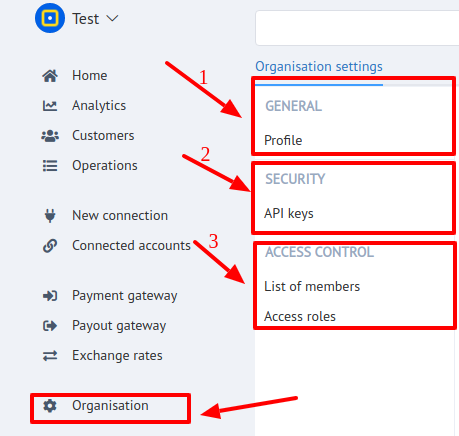
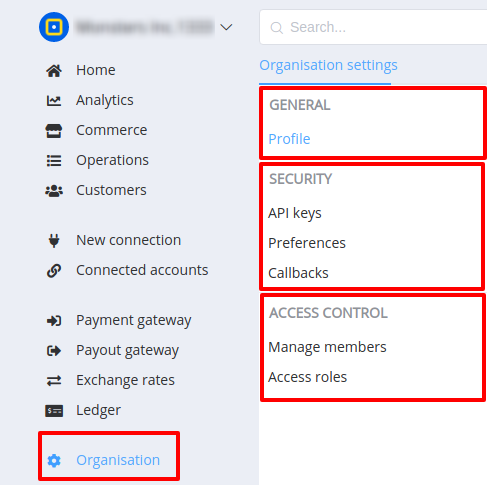
Org Update

diff --git a/docs/getting-started/organisation/access.md b/docs/getting-started/organisation/access.md
@@ -82,7 +82,7 @@ User access to the organisation is primarily determined  by the status of a team
 |    **ID**      |               **Name**       |        **Organisation Access**       |
 |:--------------:|:----------------------------:|:----------------------------:|
 | **invited**      | The invited member  has no access to the organisation until he independently activates it through the mechanism of confirmation. When you try to enter the organisation, you will be redirected to the confirmation screen. A member can be deleted only in **```invited```** state using **_"Revoke invite"_** action.      | **FALSE**         |
-| **active**      | Active user, team member        |  **TRUE**         |
+| **active**      | Active user, team member        | <span style="background-color:#79f99b"> **TRUE**</span    >         |
 | **inactive**      | Inactive team member, does not have access to the organisation. When try to access,you will be shown an error screen with message - "No access rights. Contact your organisation administrator."       |  **FALSE**       |    
 | **archived**      | Archived inactive team member. Not displayed in the management list of the team and its directory.        |  **FALSE**       |
 
@@ -102,11 +102,11 @@ In this section You can manage Access roles in current organisation!
 ### System roles
 |    **ID**      |               **Name**       |        **Description**       |
 |:--------------:|:----------------------------:|:----------------------------:|
-| **owner**      | Owner of organisation        |<ul align="left" > <li >**Only 1 member** of the team can have this role!</li><li>The user with this role cannot be removed from the command.</li><li> This role can be transferred to other team members by lowering the rights to the admin role.</li></ul>|
-| **admin**      | Organisation administrator   |Full access to the organisation, including the ability to manage access and team members (cannot delete a user with role **```owner```**).       |
-| **manager**    | Organisation manager         |Full read and write access, without the ability to manage **organisation** and **technical aspects**: _set up integrations, webhook, see keys, regenerate them, etc._      |
-| **developer**  | Organisation developer       |  Full read and write access, without the ability to manage **organisation** and **business aspects**: _re-wire payments, edit customers, organization data, etc._     |
-| **watcher**    | Watcher of  organisation     | **Only read** access  of all data, except **"sensitive data"**, such as: _keys, webhook URL, integration, etc._      |
+| **Owner**      | Owner of organisation        |<ul align="left" > <li >**Only 1 member** of the team can have this role!</li><li>The user with this role cannot be removed from the command.</li><li> This role can be transferred to other team members by lowering the rights to the admin role.</li></ul>|
+| **Administrator**      | Organisation administrator   |Full access to the organisation, including the ability to manage access and team members (cannot delete a user with role **```owner```**).       |
+| **Manager**    | Organisation manager         |Full read and write access, without the ability to manage **organisation** and **technical aspects**: _set up integrations, webhook, see keys, regenerate them, etc._      |
+| **Developer**  | Organisation developer       |  Full read and write access, without the ability to manage **organisation** and **business aspects**: _re-wire payments, edit customers, organization data, etc._     |
+| **Watcher**    | Watcher of  organisation     | **Only read** access  of all data, except **"sensitive data"**, such as: _keys, webhook URL, integration, etc._      |
 
 
 Here you can manage your organisation roles and their access scope:

diff --git a/docs/products/commerce/operations/payment-invoice/overview.md b/docs/products/commerce/operations/payment-invoice/overview.md
@@ -2,7 +2,7 @@
 
 ## General
 
-There are three types of **incoming** transactions that occur in PayCore.io®:
+There are three types of **incoming** transactions that occur in PayCore.io<sup>®</sup>:
 
 - Payment 
 
@@ -32,10 +32,10 @@ Below is a description of each status:
 <table>
 <tr ><th><b>Code</b></th><th><b>Final</b></th><th><b>Sleeping State</b></th><th><b>Description</b></th></tr>
 
-<tr><td>CREATED</td><td>No</td><td>No</td><td>Initial status after a Payment Invoice is created, processing has not started. <br> If PayCore.io will not return response 201 (Created) HTTP status code on your request, you should consider that the payment invoice was failed to be created</td></tr>
+<tr><td>CREATED</td><td>No</td><td>No</td><td>Initial status after a Payment Invoice is created, processing has not started. <br> If PayCore.io<sup>®</sup> will not return response 201 (Created) HTTP status code on your request, you should consider that the payment invoice was failed to be created</td></tr>
 <tr style="background-color:#ff8787"><td>EXPIRED</td><td><b>Yes</b></td><td>No</td><td>Means the Payment Invoice hit the lifetime limit (configurable in the 'Invoice lifetime' property) without being successfully processed, but also did not either cancelled or terminated, e.g. your customer has abandoned the payment</td></tr>
 <tr style="background-color:#ff8787"><td>TERMINATED</td><td><b>Yes</b></td><td>No</td><td>Means that the payment process was terminated by a payer prior to the payment invoice lifetime limit</td></tr>
-<tr><td>PROCESSING</td><td>No</td><td><b>Yes</b></td><td>Signifies that the payment invoice is processing by PayCore.io but its processing is not finished and there will be further status updates</td></tr>
+<tr><td>PROCESSING</td><td>No</td><td><b>Yes</b></td><td>Signifies that the payment invoice is processing by PayCore.io<sup>®</sup> but its processing is not finished and there will be further status updates</td></tr>
 <tr><td>PROCESS_PENDING</td><td>No</td><td><b>Yes</b></td><td>Means that the result of the payment process still being unknown and may not be known for an extended period of time</td></tr>
 <tr style="background-color:#79f99b"><td>PROCESSED</td><td>No</td><td>No</td><td>Confirms the payment has been processed successfully. <br> This isn't a final status since the payment can be refunded for different reasons</td></tr>
 <tr style="background-color:#79f99b"><td>PARTIALLY_PROCESSED</td><td>No</td><td>No</td><td>Means that the amount paid is less than the payment invoice amount and that amount is successfully processed, e.g. your customer has entered an amount less than the invoice amount while making an online payment</td></tr>

diff --git a/docs/getting-started/organisation/security.md b/docs/getting-started/organisation/security.md
@@ -1,14 +1,22 @@
 # Organisation: Security
 
-Security section is intended  to prevent illegal access by connection  using API keys.
+Security section is intended for:
+
+- manage organisation API keys
+- control organisation access keys
+- setting up preferences
+- callbacks configuration
+
+
+
+## API Keys
 
 Here You can:
 
-- [x] Create new API key 
-- [x] Change description 
-- [x] Add Whitelisted IP addresses
+- [x] Create new API keys 
+- [x] Configure IP Whitelist
 - [x] Change permission set of existing keys
-- [x] Revoke out-of-use keys
+- [x] Revoke deprecated keys
 
 !!! tip
     **Don't forget to Save changes to confirm your choice!**
@@ -19,3 +27,30 @@ Here You can:
     [![Security](images/org_security_3.png)](images/org_security_3.png)
 
 As a result, You will be able to give API key to External system or user for functional accessing through API connection.
+
+## Preferences
+
+This section includes organisation-wide properties.
+
+- Currencies: Owner and Administrators have the possibility to determine available currencies.
+
+
+## Callbacks
+
+This section contains:
+
+-  Signature secret keys
+
+    !!! note
+        These keys are **```READ ONLY```**!
+
+- Webhooks version
+    
+    > This property determines the Callbacks structure and the way how data is signed
+
+    !!! info
+        Read more about [**Webhooks**](../../webhooks/)
+
+!!! info "Screenshots"
+    [![Security](images/org_security_4.png)](images/org_security_4.png)
+

diff --git a/docs/getting-started/organisation/index.md b/docs/getting-started/organisation/index.md
@@ -1,11 +1,11 @@
 # Organisation
 
 
-Organisation is an important management part of <a href="https://dashboard.paycore.io/" target="_blank" rel="noopener">PayСore.io Dashboard</a>. 
+Organisation is an important management part of <a href="https://dashboard.paycore.io/" target="_blank" rel="noopener">PayСore.io<sup>®</sup> Dashboard</a>. 
 
 It allows you to isolate data and operations of your organization from other accounts in the system.
 
-It is intened to for:
+It is intended to for:
 
 - setting up organisation info
 - mebmers management
@@ -42,7 +42,7 @@ Go to this link. You will be redirected to the confirmation page and asked to cr
 
 You can create your own organisation in  **```TWO```** ways.
 
-**```First way```**: you need to **```Sign up```** in <a href="https://dashboard.paycore.io/register" target="_blank" rel="noopener">PayCore</a>.
+**```First way```**: you need to **```Sign up```** in <a href="https://dashboard.paycore.io/register" target="_blank" rel="noopener">PayCore.io<sup>®</sup></a>.
 
 !!! info
     After Signing up new organisation will be created automticaly.

diff --git a/docs/products/commerce/operations/overview.md b/docs/products/commerce/operations/overview.md
@@ -7,6 +7,7 @@
 An Operation Status represents it's current state. This property is displayed in the Operation Overview section within the Dashboard. 
 
 Workflow statuses are divided into two types: 
+
 - Final 
 - Non-final
 
@@ -17,6 +18,6 @@ Workflow statuses are divided into two types:
 Сoncurrently, a payment process may be in the **```sleeping```** state.
 
 !!! info
-    **```Sleeping```** means that PayCore.io is waiting for data, interaction with other processes, a user response or any other action.
+    **```Sleeping```** means that PayCore.io<sup>®</sup> is waiting for data, interaction with other processes, a user response or any other action.
 
 These status properties are displayed in the Status Table for each operation type.

diff --git a/docs/ips.md b/docs/ips.md
@@ -1,6 +1,6 @@
 # Domains and IP Addresses
 
-Your integration must be able to reach any of PayCore’s fully qualified  [domain names](#domains)  for it to function properly. Depending on how your integration operates, you may need to whitelist them.
+Your integration must be able to reach any of PayCore.io<sup>®</sup>’s fully qualified  [domain names](#domains)  for it to function properly. Depending on how your integration operates, you may need to whitelist them.
 
 To help your integration operate securely, it must also verify that it’s communicating with  **api.paycore.io**  through SSL certificate on it and DNS IP address.
 

diff --git a/docs/getting-started/organisation/general.md b/docs/getting-started/organisation/general.md
@@ -6,8 +6,8 @@ In "General" section You can:
 - [x] Set up it's Public profile and Contact info
 - [x] Set Webhook version  
     
-    !!! Note
-       Read more about [**Webhooks**](../../webhooks/)?
+    !!! info
+       Read more about [**Webhooks**](../../webhooks/)
 
 !!! tip
     **Don't forget to Save changes to confirm your choice!**

diff --git a/docs/api/overview.md b/docs/api/overview.md
@@ -2,7 +2,7 @@
 
 <img src="../images/paycore_global.svg" width="300"> 
 
-## PayCore<sup>®</sup> Public API 
+## PayCore.io<sup>®</sup> Public API 
 
 
 <a href = "https://apidoc.paycore.io/" target="_blank" rel="noopener"> PayCore.io<sup>®</sup> Public API (ReDoc) <i class="md-icon">launch</i></a>
